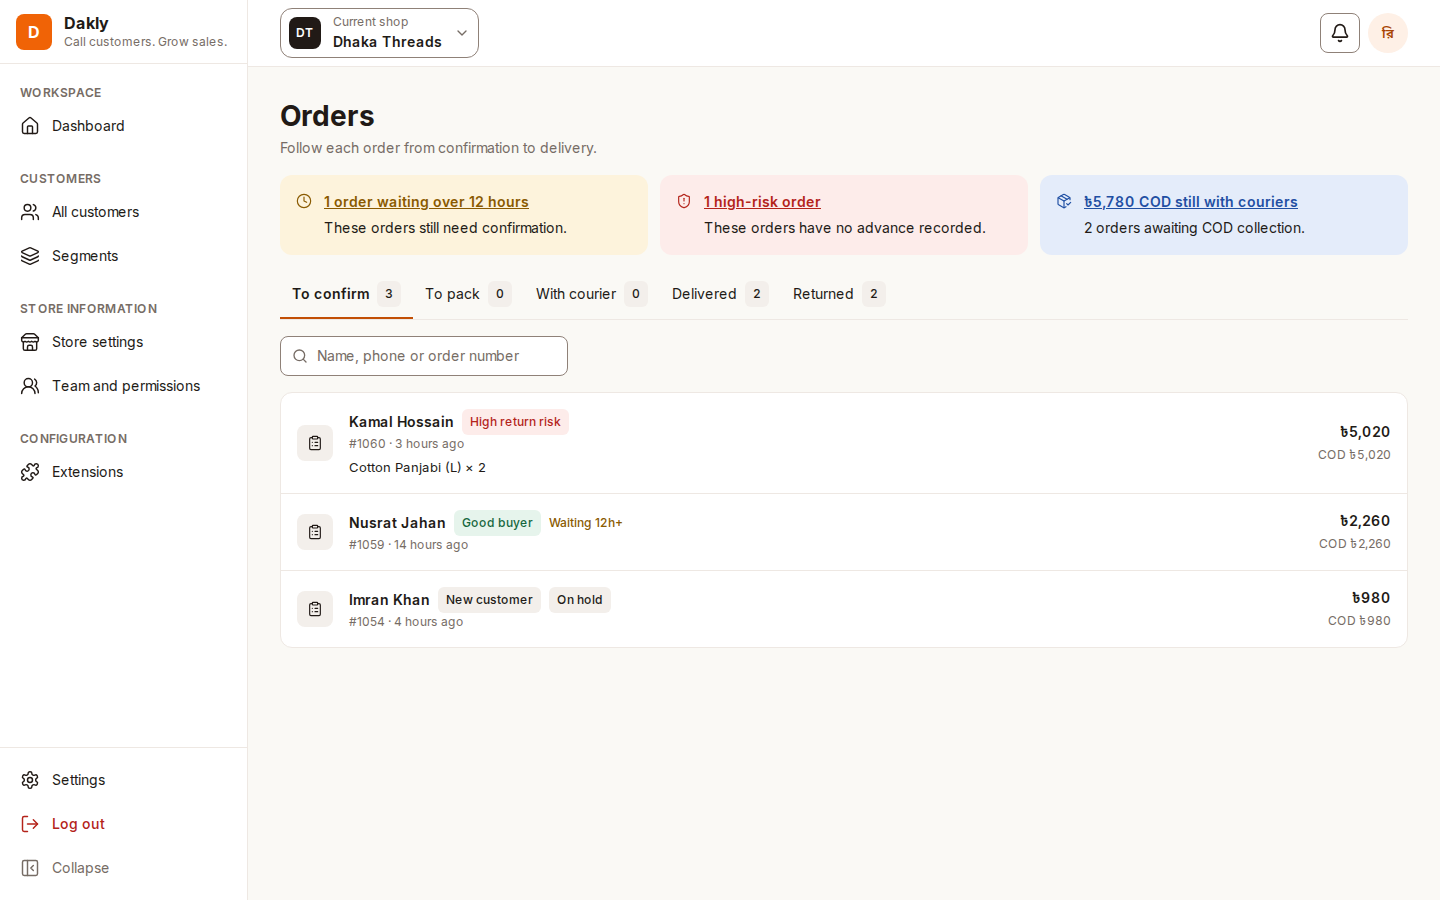
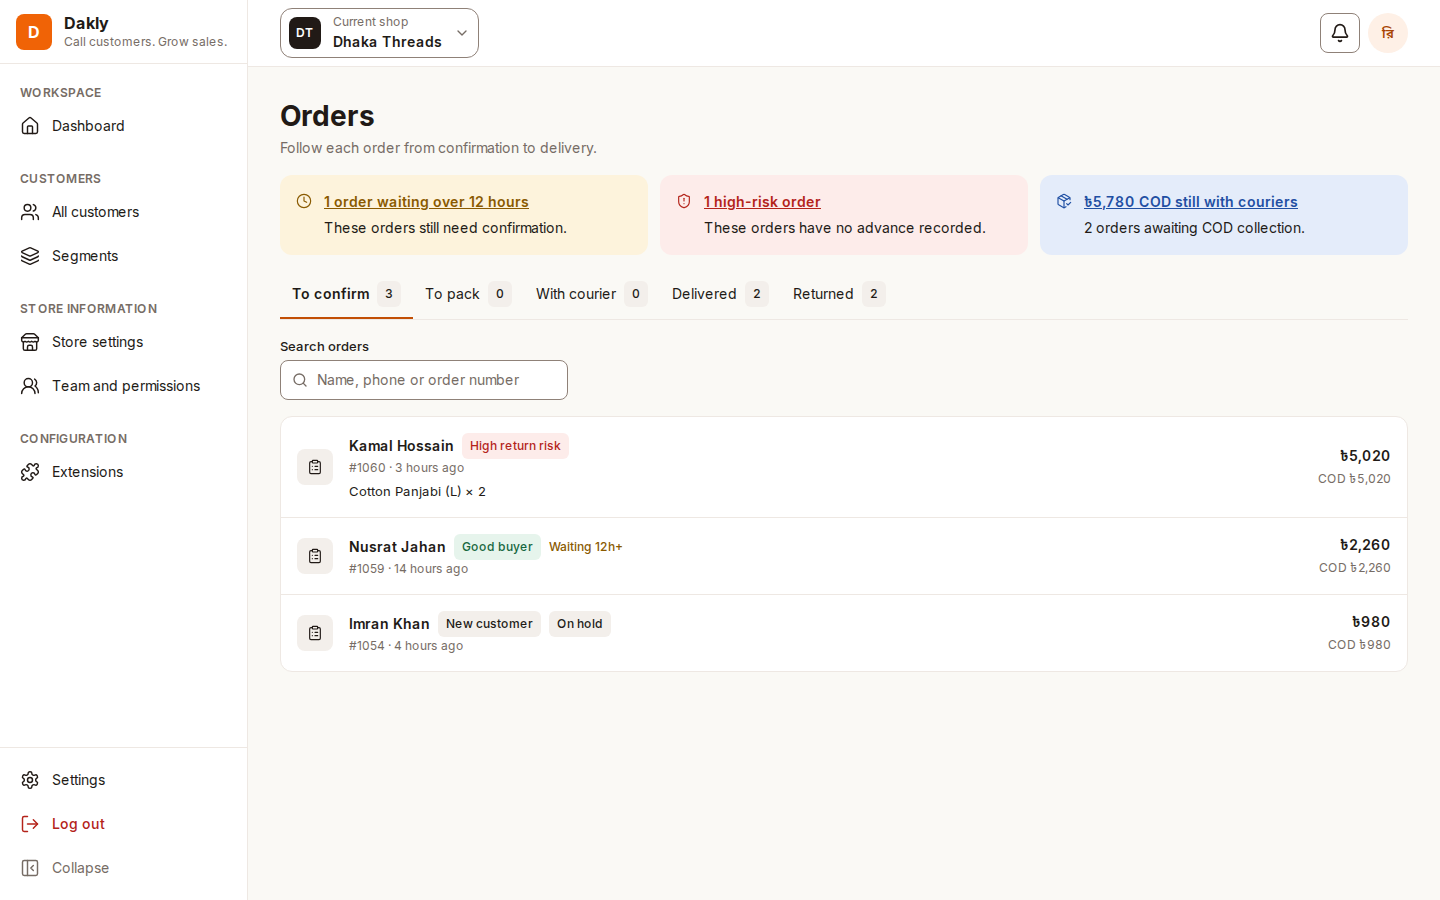
fix(ord-5): keep search labeled and separate order risk

Changed region(s): [[0.1875, 0.3733, 0.4375, 0.7467], [0.9062, 0.4667, 0.9688, 0.7467]]

diff --git a/apps/web/src/features/orders/components/order-search.tsx b/apps/web/src/features/orders/components/order-search.tsx
@@ -20,26 +20,28 @@ export function OrderSearch({ query }: { query: OrderListQuery }) {
   }
 
   return (
-    <form role="search" onSubmit={submit} className="flex flex-wrap items-center gap-2">
-      <div className="relative w-72 max-w-full">
-        <label htmlFor="order-search" className="sr-only">
+    <form role="search" onSubmit={submit} className="flex flex-wrap items-end gap-2">
+      <div className="w-72 max-w-full">
+        <label htmlFor="order-search" className="mb-1 block text-sm font-medium">
           Search orders
         </label>
-        <Search
-          className="pointer-events-none absolute top-1/2 left-3 -translate-y-1/2 text-text-muted"
-          size={16}
-          aria-hidden="true"
-        />
-        <Input
-          type="search"
-          name="search"
-          id="order-search"
-          placeholder="Name, phone or order number"
-          key={query.search}
-          defaultValue={query.search}
-          maxLength={120}
-          className="pl-9"
-        />
+        <div className="relative">
+          <Search
+            className="pointer-events-none absolute top-1/2 left-3 -translate-y-1/2 text-text-muted"
+            size={16}
+            aria-hidden="true"
+          />
+          <Input
+            type="search"
+            name="search"
+            id="order-search"
+            placeholder="Name, phone or order number"
+            key={query.search}
+            defaultValue={query.search}
+            maxLength={120}
+            className="pl-9"
+          />
+        </div>
       </div>
       {query.search ? (
         <Link

diff --git a/packages/core/src/orders/order-fulfilment.ts b/packages/core/src/orders/order-fulfilment.ts
@@ -1,5 +1,5 @@
 import type { AuditEntry } from '@dakly/contracts/audit';
-import type { OrderReturnRisk, OrderStageChange } from '@dakly/contracts/orders';
+import type { OrderStageChange } from '@dakly/contracts/orders';
 import type { StockMovementKind } from '@dakly/contracts/products';
 
 import type { ProductsService } from '../products/products.service';
@@ -130,11 +130,4 @@ async function moveOrderStock(
     if (isStockTracked && quantity > 0)
       await products.moveStock(storeId, variantId, { ...movement, quantity });
   }
-}
-
-export function returnRisk(outcome?: { parcels: number; returned: number }): OrderReturnRisk {
-  if (!outcome) return 'new_customer';
-  if (outcome.parcels < 2) return null;
-  if (2 * outcome.returned >= outcome.parcels) return 'high';
-  return 5 * outcome.returned <= outcome.parcels ? 'good' : 'some_returns';
 }

diff --git a/packages/core/src/orders/orders.service.ts b/packages/core/src/orders/orders.service.ts
@@ -22,7 +22,8 @@ import { StoreTransaction } from '../platform/database/store-transaction';
 import { OutboxService } from '../platform/outbox/outbox.service';
 import { ProductsService } from '../products/products.service';
 import { StoresService } from '../stores/stores.service';
-import { applyOrderFulfilment, returnRisk } from './order-fulfilment';
+import { applyOrderFulfilment } from './order-fulfilment';
+import { returnRisk } from './order-risk';
 import {
   canEditOrder,
   isSyncedOrder,

diff --git a/packages/core/src/orders/order-risk.ts b/packages/core/src/orders/order-risk.ts
@@ -1,0 +1,8 @@
+import type { OrderReturnRisk } from '@dakly/contracts/orders';
+
+export function returnRisk(outcome?: { parcels: number; returned: number }): OrderReturnRisk {
+  if (!outcome) return 'new_customer';
+  if (outcome.parcels < 2) return null;
+  if (2 * outcome.returned >= outcome.parcels) return 'high';
+  return 5 * outcome.returned <= outcome.parcels ? 'good' : 'some_returns';
+}
